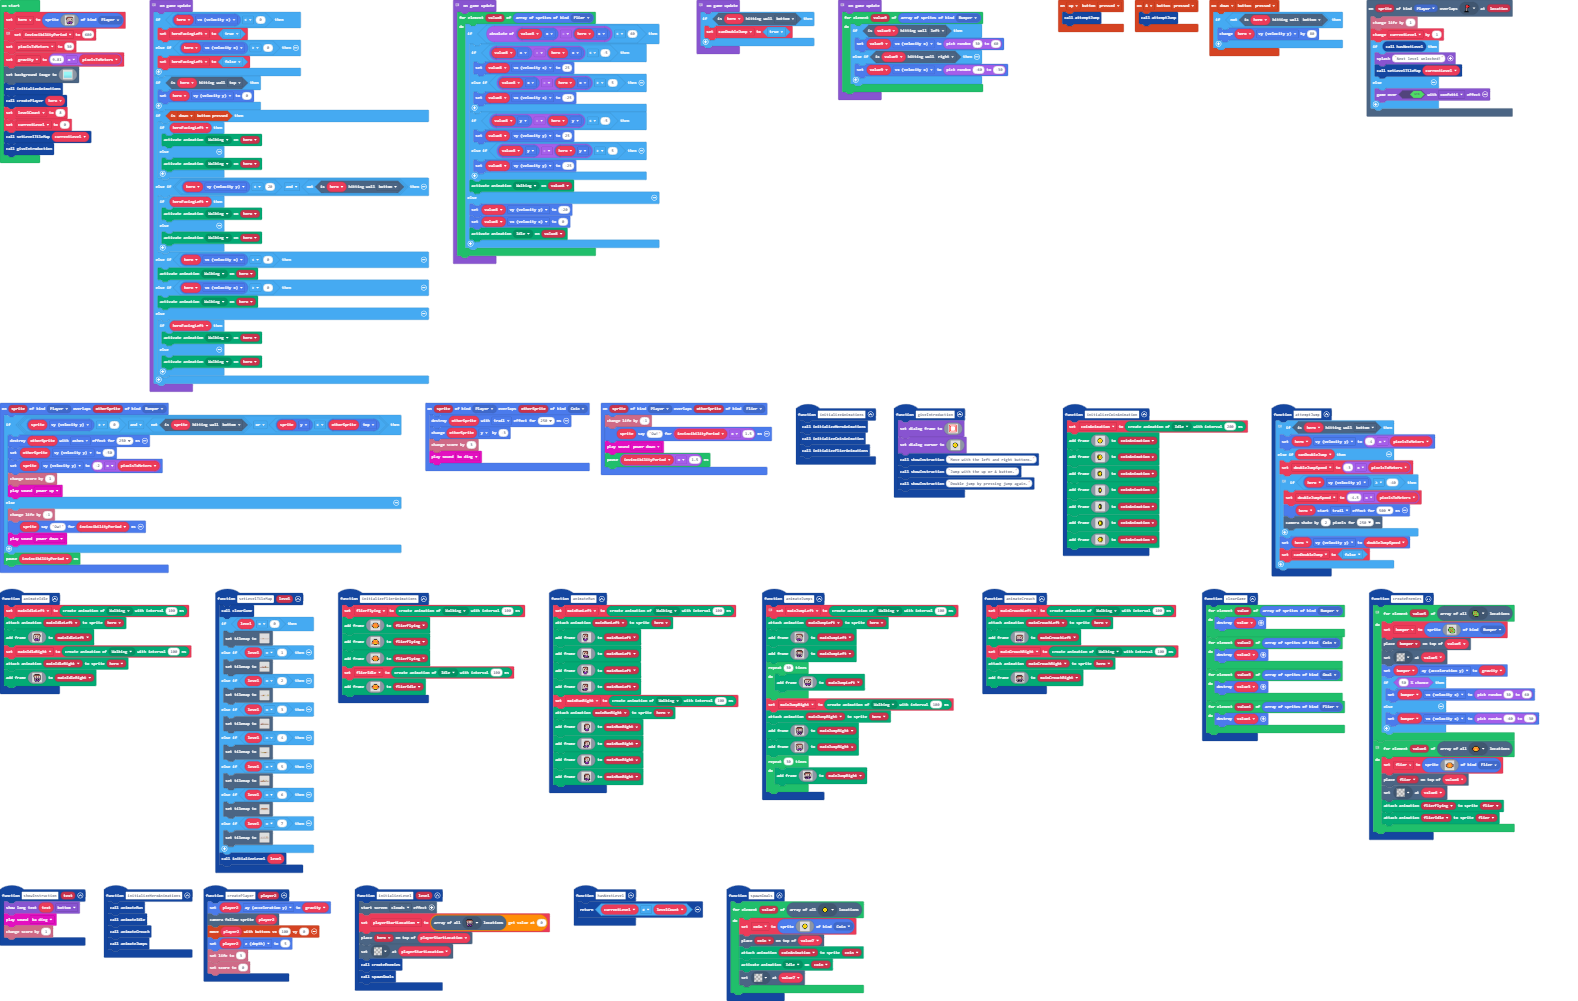
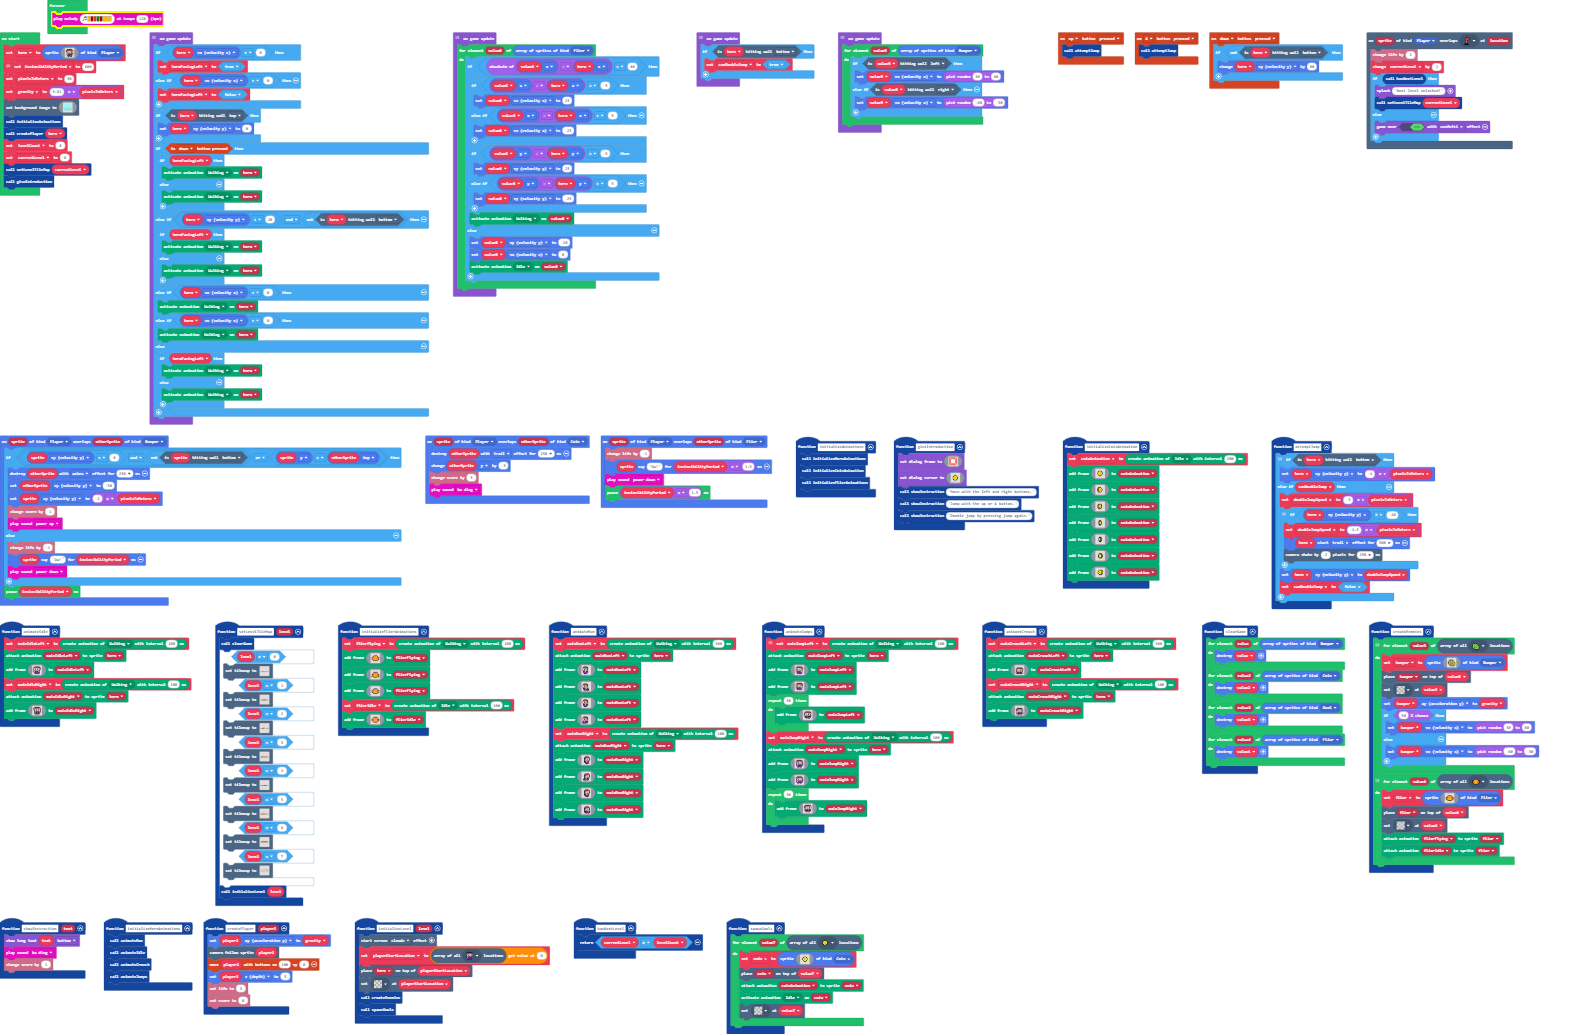
Update main.blocks, main.ts

Changed region(s): [[0.0, 0.0, 0.9937, 1.0]]

diff --git a/main.ts b/main.ts
@@ -1081,3 +1081,6 @@ game.onUpdate(function () {
         }
     }
 })
+forever(function () {
+    music.playMelody("A C5 B G C5 A A A ", 120)
+})
